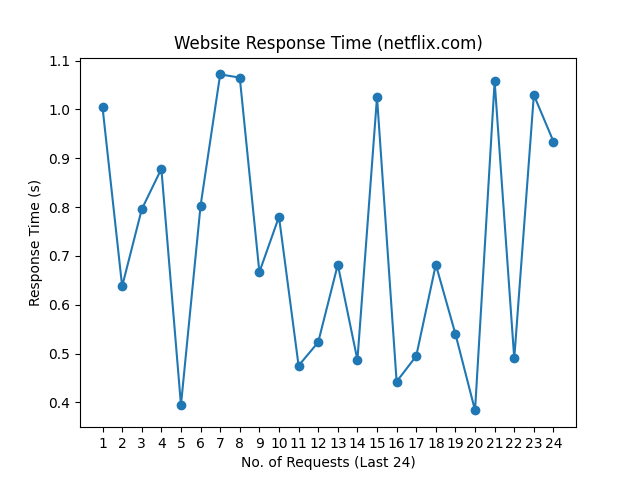
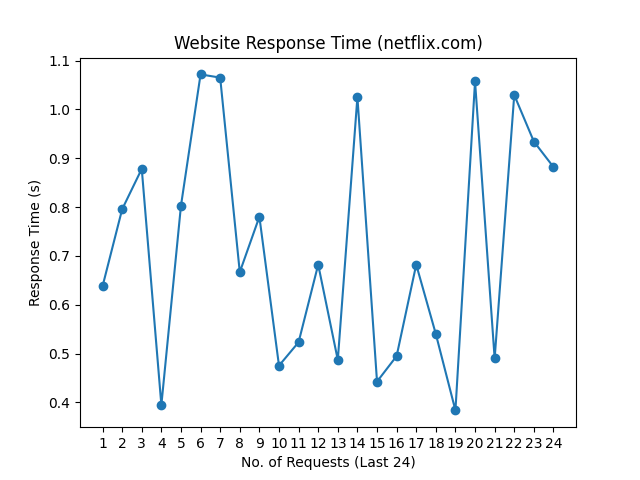
update README.md, history and graph

Changed region(s): [[0.1562, 0.125, 0.875, 0.875]]

diff --git a/README.md b/README.md
@@ -1,10 +1,10 @@
 # Web Monitoring
 
-Last Checked: 09/03/2024 08:57
+Last Checked: 10/03/2024 09:03
 
 | Website | Response Time (s) | Status | Avg Uptime (%) |
 |---------|-------------------|--------|----------------|
 | www.thiswebsiteisdown.net | 0 <br> <img src="graph/thiswebsiteisdown.net.png" alt="Graph" width="200" height="200">  | ❌ Down | 0.00 |
-| www.netflix.com | 0.934142 <br> <img src="graph/netflix.com.png" alt="Graph" width="200" height="200">  | ✅ Up | 100.00 |
-| www.google.com | 0.103829 <br> <img src="graph/google.com.png" alt="Graph" width="200" height="200">  | ✅ Up | 100.00 |
-| www.facebook.com | 0.998248 <br> <img src="graph/facebook.com.png" alt="Graph" width="200" height="200">  | ✅ Up | 100.00 |
+| www.netflix.com | 0.881969 <br> <img src="graph/netflix.com.png" alt="Graph" width="200" height="200">  | ✅ Up | 100.00 |
+| www.google.com | 0.083673 <br> <img src="graph/google.com.png" alt="Graph" width="200" height="200">  | ✅ Up | 100.00 |
+| www.facebook.com | 1.119834 <br> <img src="graph/facebook.com.png" alt="Graph" width="200" height="200">  | ✅ Up | 100.00 |
